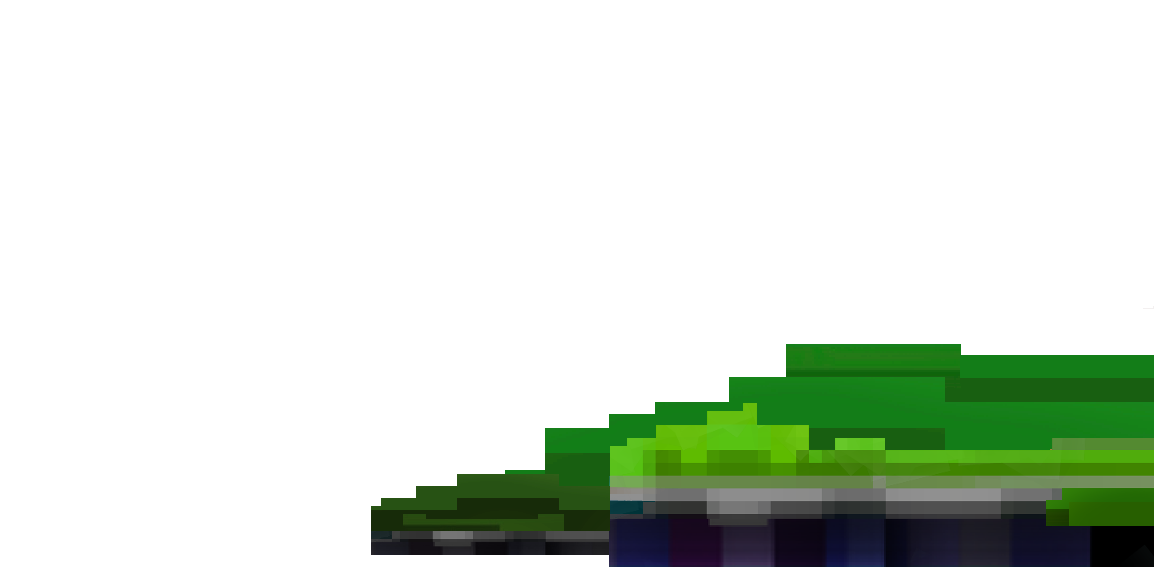
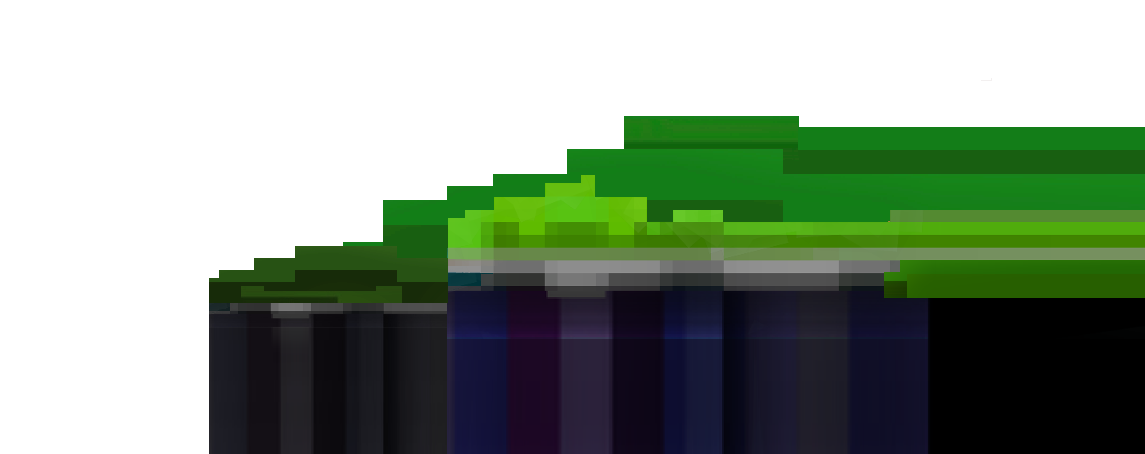
Hey sibhse. let's be rootless

diff --git a/src/components/main-view/main-view.css b/src/components/main-view/main-view.css
@@ -1,120 +1,157 @@
+@font-face {
+  font-family: urchlo;
+  src: url('../../fonts/Urchlo\ Romhanach.ttf');
+}
+
+#f12,
+#inspect {
+  color: palegreen;
+}
 
 @font-face {
-	font-family: urchlo;
-	src: url('../../fonts/Urchlo\ Romhanach.ttf');
-  }
-  #f12, #inspect{
-	  color:palegreen;
-  }
-  @font-face {
-	font-family: aonchlo;
-	src: url('../../fonts/aonchlo.ttf');
-  }
-  *{font-family:urchlo}
-.directional-pad{
-	 /* border:4px solid blueviolet; */
-	position:relative;
-	z-index: 6000;
-	opacity:0.7;
-	top:25%;
-	width:150px;
-	height:150px;
-	transform:scale(0.8)
+  font-family: aonchlo;
+  src: url('../../fonts/aonchlo.ttf');
 }
 
-.start-menu{}
-.hidden{
-	display: none;
-}
-.a-and-b-btns{
-	opacity:0.7;
-	position: fixed;
-	display: flex;
-	align-items: flex-start;
-	justify-content: space-evenly;
-    z-index: 6999;
-    left: 5%;
-	height:100%;
-	color:rgba(0,0,0,0);
-	background-color:rgba(0,0,0,0);
-	top:45%;
-	
-/* border:4px solid pink; */
+* {
+  font-family: urchlo
 }
 
-.right-side{
-	top:0px;
-	right:0px;
-	width:31%;
-	height:100%;
-	/* background-image: url(../../img/Dealbh_bg_dark.png); */
-	background-size: cover;
-	position: fixed;
-	z-index: 0;
-	justify-content: center;
-	display: grid;
-}
-.select-and-start-btns{
-    /* border: 4px solid rebeccapurple; */
-	position: fixed;
-	top:90%;
-	justify-content: space-evenly;
-	width: 100%;
-	z-index: 9000;
-	display: flex;
+.directional-pad {
+  /* border:4px solid blueviolet; */
+  position: relative;
+  z-index: 6000;
+  opacity: 0.7;
+  top: 25%;
+  width: 150px;
+  height: 150px;
+  transform: scale(0.8)
 }
 
-.select-and-start-btns-vert{
-    /* border: 4px solid rebeccapurple; */
-    position: fixed;
-    display: flex;
-    align-items: flex-start;
-    justify-content: center;
-    z-index: 4999;
-    left: 66%;
-    top: 91%;
-    width: 40%;
+.start-menu {}
+
+.hidden {
+  display: none;
 }
+
+.a-and-b-btns {
+  opacity: 0.7;
+  position: fixed;
+  display: flex;
+  align-items: flex-start;
+  justify-content: space-evenly;
+  z-index: 6999;
+  left: 5%;
+  height: 100%;
+  color: rgba(0, 0, 0, 0);
+  background-color: rgba(0, 0, 0, 0);
+  top: 45%;
+
+  /* border:4px solid pink; */
+}
+
+.right-side {
+  top: 0px;
+  right: 0px;
+  width: 31%;
+  height: 100%;
+  /* background-image: url(../../img/Dealbh_bg_dark.png); */
+  background-size: cover;
+  position: fixed;
+  z-index: 0;
+  justify-content: center;
+  display: grid;
+}
+
+.select-and-start-btns {
+  /* border: 4px solid rebeccapurple; */
+  position: fixed;
+  top: 90%;
+  justify-content: space-evenly;
+  width: 100%;
+  z-index: 9000;
+  display: flex;
+}
+
+.select-and-start-btns-vert {
+  /* border: 4px solid rebeccapurple; */
+  position: fixed;
+  display: flex;
+  align-items: flex-start;
+  justify-content: center;
+  z-index: 4999;
+  left: 66%;
+  top: 91%;
+  width: 40%;
+}
+
 .grid-container {
-	display: grid;
-	grid-template-columns: auto auto auto;
+  display: grid;
+  grid-template-columns: auto auto auto;
 
 }
-h1{color:gainsboro;}
-h2{
-	color:gainsboro;
-	margin:0;
-	padding-top:10px;
+
+h1 {
+  color: gainsboro;
+}
+
+h2 {
+  color: gainsboro;
+  margin: 0;
+  padding-top: 10px;
 }
 
 .grid-item {
-	border: 3px solid rgba(0, 0, 0, 0.8);
-	font-size: 30px;
-	text-align: center;
-	border:0px;
-	padding:0px;
-	margin:0px !important;
-}
-#splash{
-	position: fixed;
-	background-image: url('../../img/poster-fg.png');
-top:0% !important;
-	height:100%;
-	background-repeat: no-repeat;
-width:100%;
-z-index: -4;
-background-size: contain;
+  border: 3px solid rgba(0, 0, 0, 0.8);
+  font-size: 30px;
+  text-align: center;
+  border: 0px;
+  padding: 0px;
+  margin: 0px !important;
 }
 
-#prompt-hor{
-	/* border:4px solid crimson */
+#splash,
+#hills-overlay {
+  top: 40% !important;
+  background-image: url('../../img/poster-fg.png');
+  position: fixed;
+  height: 100%;
+  background-repeat: no-repeat;
+  width: 100%;
+  z-index: 8;
+  background-size: contain;
+
 }
 
-#ciaroga{
+.mobile-mode {
+
+  position: relative;
+  z-index: 909;
+  margin-top:10%;
+  /* border: 3px solid black; */
+  background-color: rgba(0, 0, 0, 0.7);
+  height: 30%;
+}
+
+#hills-overlay {
+  left: 0%;
+}
+
+#prompt-hor {
+  height: 100%;
+  /* border:4px solid crimson */
+  overflow-x: hidden;
+  overflow-y: hidden;
+  top: 0%;
     position: fixed;
-    top: 10%;
-    width: 50%;
-    z-index: 6000;
-    left: 25%;
+}
 
+
+#ciaroga {
+  position: fixed;
+  top: 10%;
+  width: 50%;
+  z-index: 6000;
+  left: 25%;
+  transform: scale(0.65);
 }

diff --git a/src/components/main-view/main-view.jsx b/src/components/main-view/main-view.jsx
@@ -535,16 +535,22 @@ export default class MainView extends React.Component {
 							</div></>}
 						{this.state.mobile ? <div id='prompt-hor'>
 							<video autoPlay muted loop id="prompt-vid"><source src={promptVid} type="video/mp4" alt=" remember the dream speed of falling and fly along the memory of wind" /></video>
+					<div id="hills-overlay" />
+
 							
-							 {this.state.engMode ? <><h3>For visitors on desktop please press 12 or right click and select inspect. Then  select </h3> <img alt="toggle mobile icon" src={mobile}></img><p>chun aithris a dhéanamh ar gléas soghluaiste</p><p>to simulate mobile device</p></> : <><h2 className="mobile-mode">I gcomhair cuirteoirí ar ríomhaire baile, brú <span id="f12">f12</span> nó clé-clic agus roghnaigh <span id="inspect">inspect</span>, le do thoil. Ansin roghnaigh </h2><img alt="toggle mobile icon" src={mobile}></img> <p>chun aithris a dhéanamh ar gléas soghluaiste   |   to simulate mobile device</p></>}<br /> 
+							 {this.state.engMode ? <><h3>For visitors on desktop please press 12 or right click and select inspect. Then  select </h3> <img alt="toggle mobile icon" src={mobile}></img><p>chun aithris a dhéanamh ar gléas soghluaiste</p><p>to simulate mobile device</p></> : <div className="mobile-mode"><h2 >I gcomhair cuirteoirí ar ríomhaire baile, brú <span id="f12">f12</span> nó clé-clic agus roghnaigh <span id="inspect">inspect</span>, le do thoil. Ansin roghnaigh </h2><img alt="toggle mobile icon" src={mobile}></img> <p>chun aithris a dhéanamh ar gléas soghluaiste   |   to simulate mobile device</p></div>}<br /> 
 							 	<img id="ciaroga" src={ciaroga}/>
 							 </div> : null
+
+
 						}
+						
 						<div className={this.state.showStartMenu === true ? 'start-menu' : 'hidden'}>
 							<StartMenu conceptHandler={this.conceptHandler} />
 
 						</div>
 					</div>
+
 				</Route>
 
 				<Route exact path="/champions">

diff --git a/src/components/champions/champions.css b/src/components/champions/champions.css
@@ -27,7 +27,9 @@ animation:scroll-down 5s forwards;
   justify-content: space-evenly;
 }
 
-.ui{opacity: 0.7;}
+.ui{opacity: 0.7;
+position: fixed;
+z-index:90000;}
 
 
 
